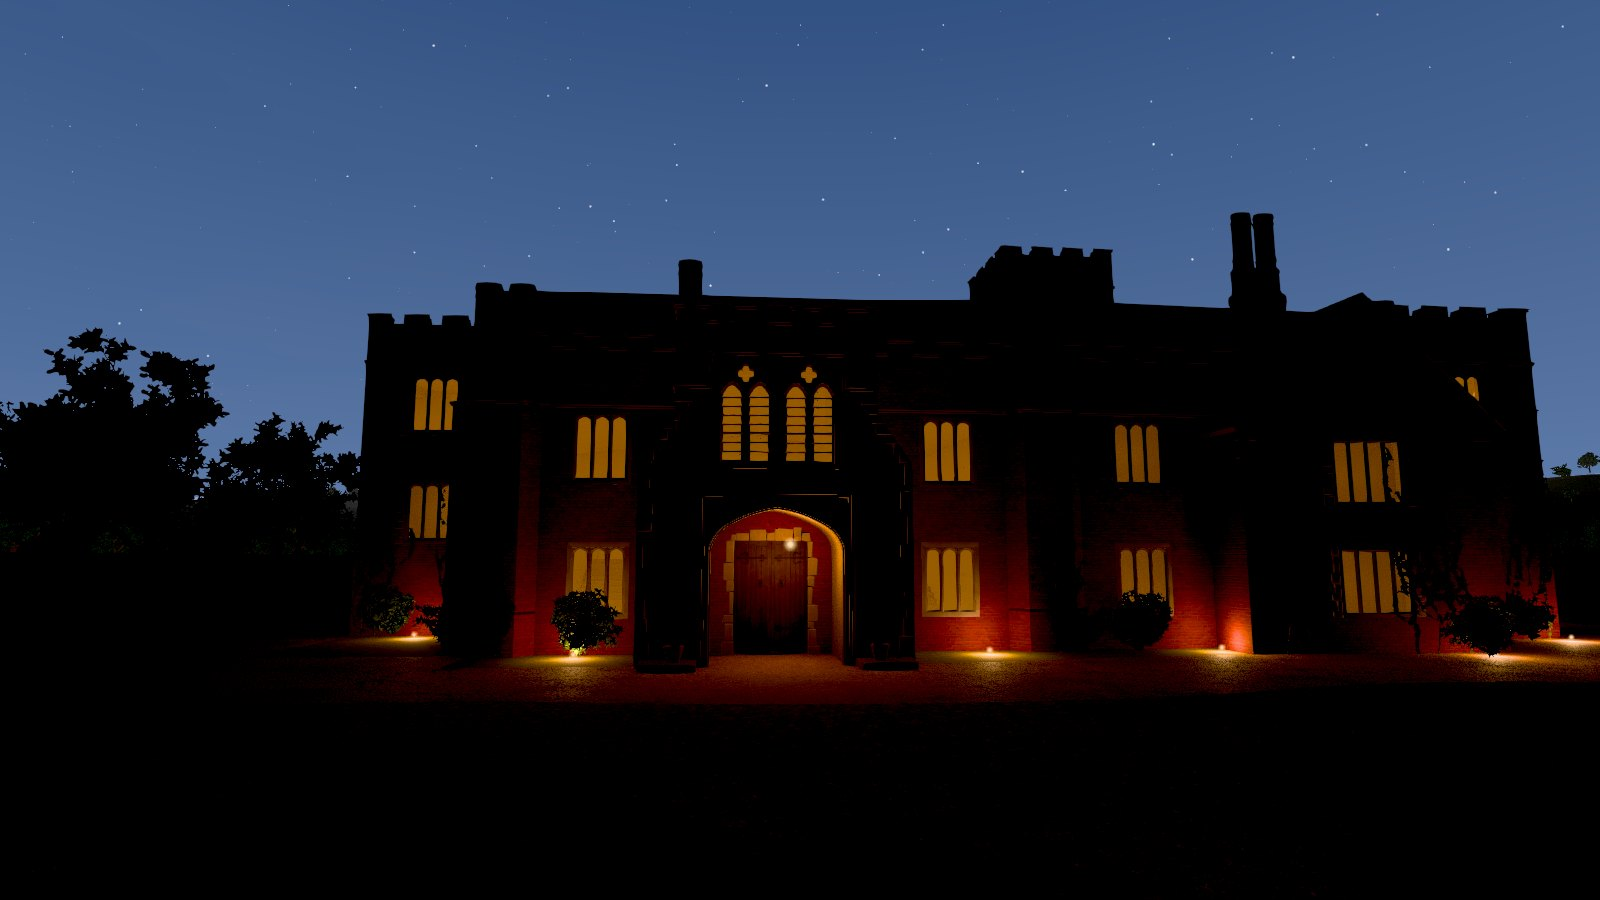
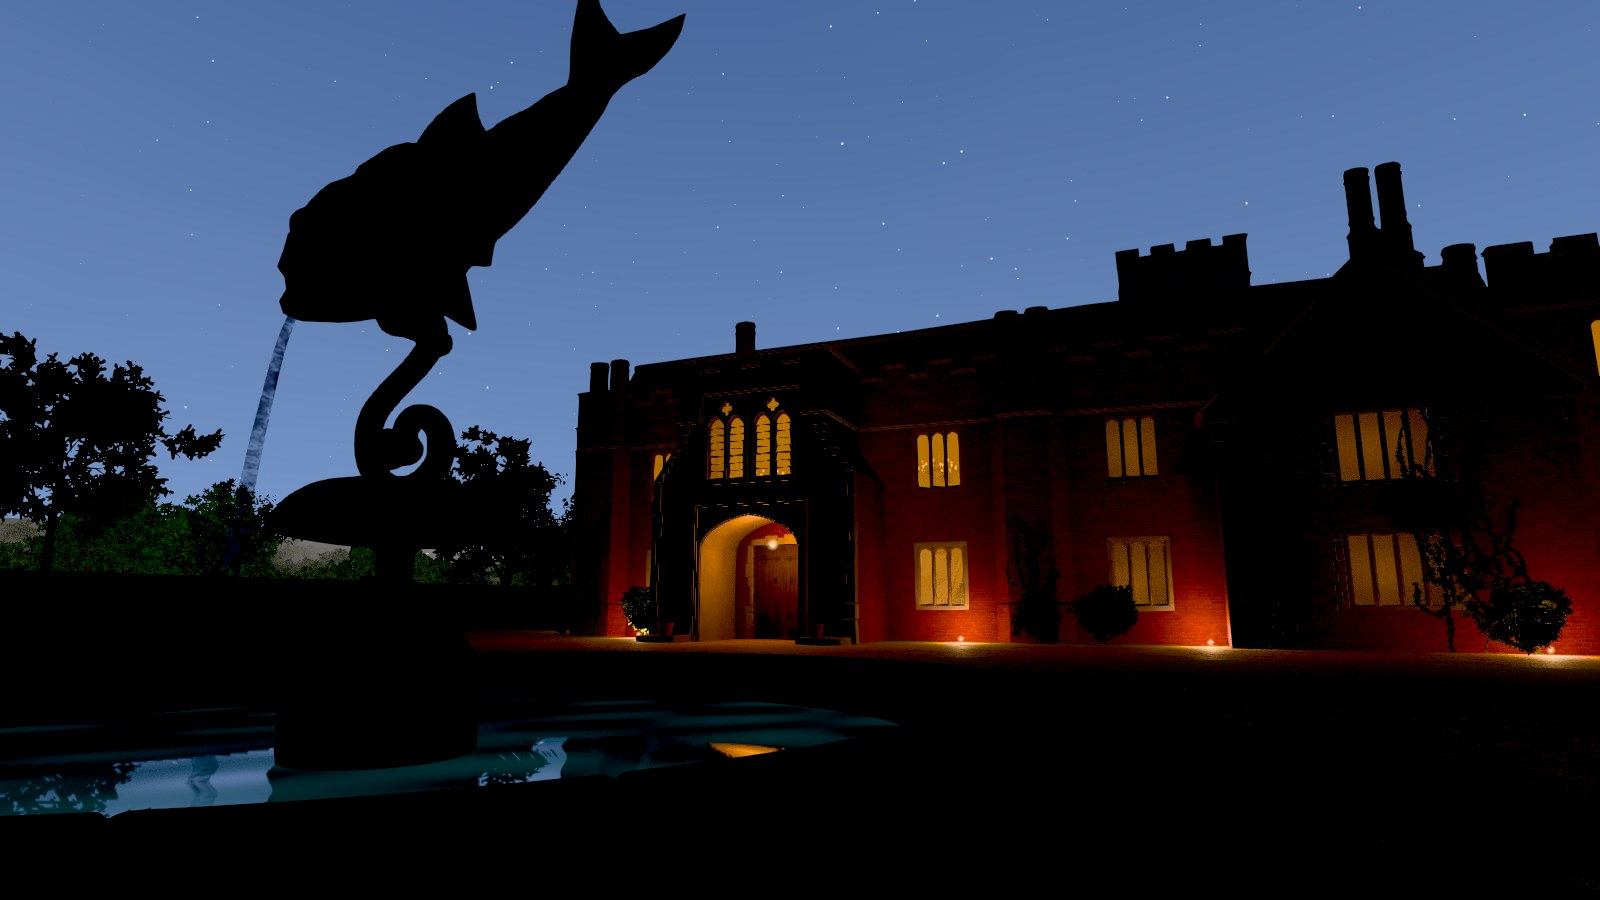
README screenshots: more artistic angles (the dolphin fountain by day and at night, through the gate arch), a better view of the pool, and the seasons from one view (spring, summer, autumn, winter) instead of the plain front and the assault course

diff --git a/README.md b/README.md
@@ -7,16 +7,27 @@ A three.js page that shows Classic Croft Manor HD v2.3 (OBJ by TRJTA, exported f
 ![The manor from over the gate in the afternoon: the drive, the fountain, the walled grounds and the hills](docs/screenshots/gate.jpg)
 
 <p>
-<img src="docs/screenshots/front.jpg" width="49%" alt="The front of the house in the morning sun">
-<img src="docs/screenshots/night.jpg" width="49%" alt="The front of the house at night, with the windows and the lamps lit">
+<img src="docs/screenshots/fountain.jpg" width="49%" alt="The dolphin fountain in the morning, with the front of the house behind it">
+<img src="docs/screenshots/night.jpg" width="49%" alt="The dolphin fountain against the house at night, the windows and the lamps along the front lit">
+</p>
+<p>
+<img src="docs/screenshots/gate-arch.jpg" width="49%" alt="The gate arch from the drive in the evening, with the fountain seen through it">
+<img src="docs/screenshots/pool.jpg" width="49%" alt="The pool room: the mosaic frieze, the diving board and the water">
 </p>
 <p>
 <img src="docs/screenshots/hall.jpg" width="49%" alt="The great hall: the chequered floor, the double staircase and the paintings">
 <img src="docs/screenshots/ballroom.jpg" width="49%" alt="The ballroom with its chandeliers">
 </p>
+
+**Through the year.** The Season slider sets the day of the year: the sun takes that day's path, the trees come into leaf, turn yellow and brown and go bare, the grass changes, and in midwinter snow lies on the lawns, roofs and drive. The same view on 21 April, 10 July, 23 October and 19 January:
+
 <p>
-<img src="docs/screenshots/pool.jpg" width="49%" alt="The pool room with its frieze and reflections">
-<img src="docs/screenshots/course.jpg" width="49%" alt="The assault course in the grounds, in the evening">
+<img src="docs/screenshots/spring.jpg" width="49%" alt="The manor in spring: fresh green trees and lawns">
+<img src="docs/screenshots/summer.jpg" width="49%" alt="The manor in summer: deep green trees">
+</p>
+<p>
+<img src="docs/screenshots/autumn.jpg" width="49%" alt="The manor in autumn: golden and brown trees">
+<img src="docs/screenshots/winter.jpg" width="49%" alt="The manor in winter: snow on the lawns and roofs, bare trees">
 </p>
 
 The model is **Classic Croft Manor HD v2.3 by TRJTA**, a fan remake of the classic FMV Croft Manor, published on [core-design.com](https://core-design.com/community_classicfmvmanorremake.html) under [CC BY-NC-SA 4.0](https://creativecommons.org/licenses/by-nc-sa/4.0/) ([download the original OBJ](https://icedrive.net/0/dfdFFOROA9)). It is not in this repository. The screenshots show it as converted and lit by this viewer, and are shared under the same licence. Core Design, Lara Croft and Tomb Raider are trademarks of Embracer Group AB; this is a fan project, not made, endorsed or sponsored by them.
